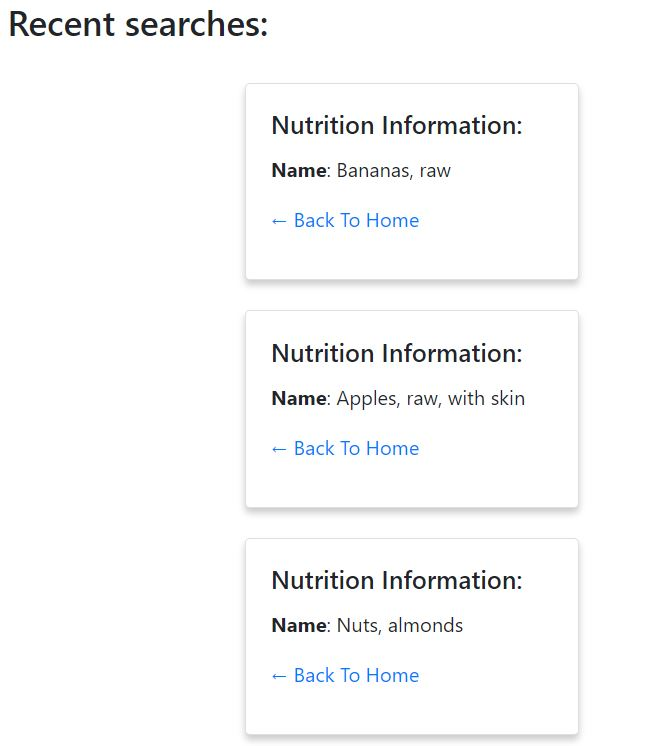
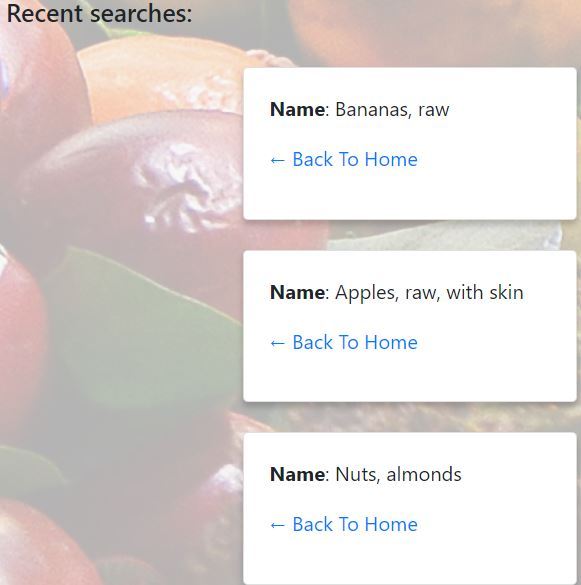
i added some pictures and i fixed readme

diff --git a/README.md b/README.md
@@ -29,7 +29,7 @@ From this user input data, users will be able to do the followings:
 
 ### Sketch of Final Product: 
 ![demo1](https://github.com/tiger2877/paprika/blob/master/public/images/demo1.JPG)
-![demo2](https://github.com/tiger2877/paprika/blob/master/public/images/demo2.JPG)
+![demo2](https://github.com/tiger2877/paprika/blob/master/public/images/demo4.JPG)
 ![demo3](https://github.com/tiger2877/paprika/blob/master/public/images/demo3.JPG)
 - - -
 
